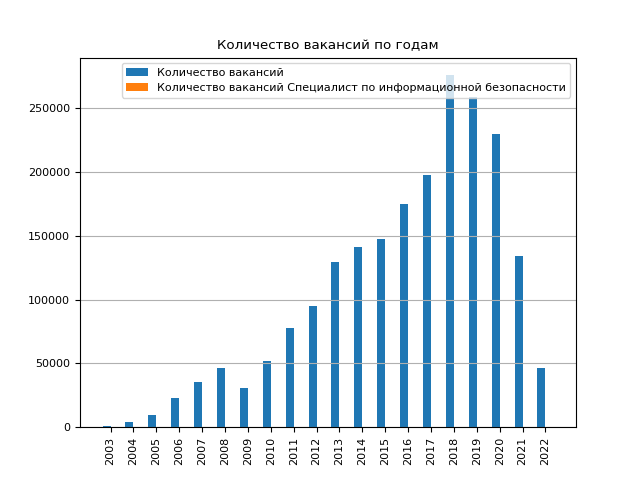
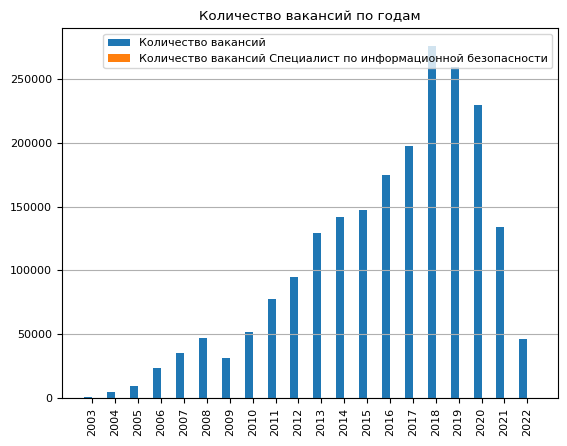
update images

diff --git a/vacanciesAnalysisApp/services/fillerDatabase.py b/vacanciesAnalysisApp/services/fillerDatabase.py
@@ -74,21 +74,21 @@ if __name__ == '__main__':
     years = convertedVacanciesDB.GetResponseDF(f"""SELECT DISTINCT year FROM Skills""")['year'].tolist()
 
     skillsStatistics = pd.DataFrame()
-    for year in years:
-        skillsStatistics = pd.concat([skillsStatistics, convertedVacanciesDB.GetResponseDF(f"""with Top as (SELECT year, skill, COUNT(skill) as count
-            FROM Skills
-            WHERE ((LOWER(vacancy) LIKE '%специалист по информационной безопасности%')
-                    OR (LOWER(vacancy) LIKE '%безопасность%')
-                    OR (LOWER(vacancy) LIKE '%защита%')
-                    OR (LOWER(vacancy) LIKE '%information security specialist%')
-                    OR (LOWER(vacancy) LIKE '%information security%')
-                    OR (LOWER(vacancy) LIKE '%фахівець служби безпеки%')
-                    OR (LOWER(vacancy) LIKE '%cyber security%')) and year == '{year}'
-            group by skill),
-            Sum as (select sum(count) as total from Top)
-            select year, skill, count, ROUND((CAST(count as REAL) / total) * 100, 2) as ratio from Top,Sum
-            order by count
-            desc limit 10""")])
+    # for year in years:
+    #     skillsStatistics = pd.concat([skillsStatistics, convertedVacanciesDB.GetResponseDF(f"""with Top as (SELECT year, skill, COUNT(skill) as count
+    #         FROM Skills
+    #         WHERE ((LOWER(vacancy) LIKE '%специалист по информационной безопасности%')
+    #                 OR (LOWER(vacancy) LIKE '%безопасность%')
+    #                 OR (LOWER(vacancy) LIKE '%защита%')
+    #                 OR (LOWER(vacancy) LIKE '%information security specialist%')
+    #                 OR (LOWER(vacancy) LIKE '%information security%')
+    #                 OR (LOWER(vacancy) LIKE '%фахівець служби безпеки%')
+    #                 OR (LOWER(vacancy) LIKE '%cyber security%')) and year == '{year}'
+    #         group by skill),
+    #         Sum as (select sum(count) as total from Top)
+    #         select year, skill, count, ROUND((CAST(count as REAL) / total) * 100, 2) as ratio from Top,Sum
+    #         order by count
+    #         desc limit 10""")])
     convertedVacanciesDB.CloseDB()
 
     report = Report("Специалист по информационной безопасности")
@@ -96,10 +96,10 @@ if __name__ == '__main__':
     statisticsByYear = pd.merge(pd.merge(avgSalary, avgSalaryByVacancy, on='publishedYear'),
                                 pd.merge(countVacancies, countVacancy, on='publishedYear'),
                                 on='publishedYear')
-    # report.GenerateImages(statisticsByYear.to_dict(), avgCitySalary.set_index('salaryAreaName').to_dict(),
-    #                       avgCityCount.set_index('countAreaName').to_dict())
+    report.GenerateImages(statisticsByYear.to_dict(), avgCitySalary.set_index('salaryAreaName').to_dict(),
+                          avgCityCount.set_index('countAreaName').to_dict())
 
-    InsertData(models.StatisticsByYear, statisticsByYear.reset_index())
-    InsertData(models.SalaryStatisticsByArea, avgCitySalary)
-    InsertData(models.RatioStatisticsByArea, avgCityCount)
-    InsertData(models.SkillsStatisticsByYear, skillsStatistics)
+    # InsertData(models.StatisticsByYear, statisticsByYear.reset_index())
+    # InsertData(models.SalaryStatisticsByArea, avgCitySalary)
+    # InsertData(models.RatioStatisticsByArea, avgCityCount)
+    # InsertData(models.SkillsStatisticsByYear, skillsStatistics)

diff --git a/vacanciesAnalysisApp/services/imgGenerator.py b/vacanciesAnalysisApp/services/imgGenerator.py
@@ -107,26 +107,26 @@ class Report:
                                         dataByYear['avgSalaryByVacancy'],
                                         "средняя з/п",
                                         f'з/п {self.vacancyName}', 90)
-        figure.savefig(f'{ax.get_title()}')
+        figure.savefig(f'{ax.get_title()}', bbox_inches='tight')
         figure.clear()
         ax = figure.add_subplot()
         ax = self.__CreateVerticalBars(ax, f"Количество вакансий по годам", dataByYear['countVacancies'],
                                         dataByYear['countVacancy'],
                                         "Количество вакансий", f'Количество вакансий {self.vacancyName}', 90)
-        figure.savefig(f'{ax.get_title()}')
+        figure.savefig(f'{ax.get_title()}', bbox_inches='tight')
         figure.clear()
         ax = figure.add_subplot()
         ax = self.__CreateHorizontalBar(ax, "Уровень зарплат по городам", salaryDataByArea['avgSalaryByArea'])
-        figure.savefig(f'{ax.get_title()}')
+        figure.savefig(f'{ax.get_title()}', bbox_inches='tight')
         figure.clear()
         ax = figure.add_subplot()
         plt.rc('font', size=6)
         tempDict = {k: v for k, v in countDataByArea['ratioByArea'].items()}
-        tempDict["Другие"] = 1 - sum(tempDict.values())
+        tempDict["Другие"] = 100 - sum(tempDict.values())
         tempDict = dict(sorted(tempDict.items(), key=lambda x: x[1]))
         ax = self.__CreatePie(ax, "Доля вакансий по городам", tempDict)
         plt.tight_layout()
-        figure.savefig(f'{ax.get_title()}')
+        figure.savefig(f'{ax.get_title()}', bbox_inches='tight')
 
     #     plt.rc('font', size=8)
     #     figure = plt.figure()
